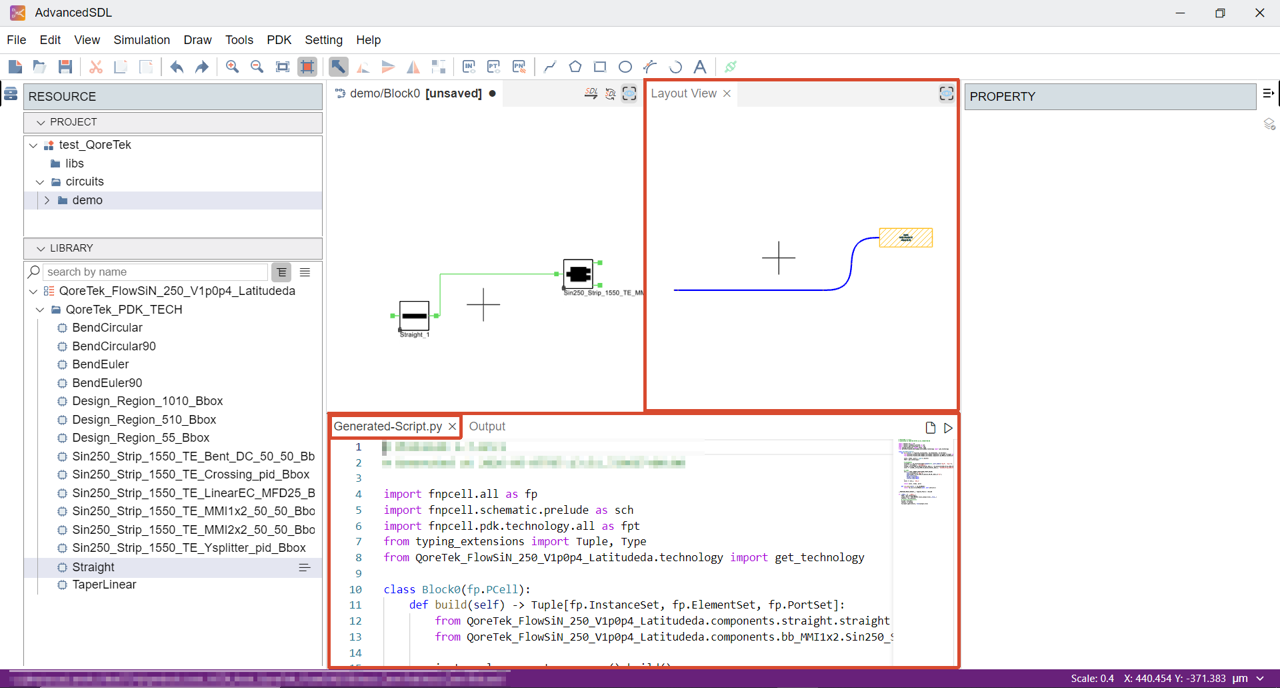
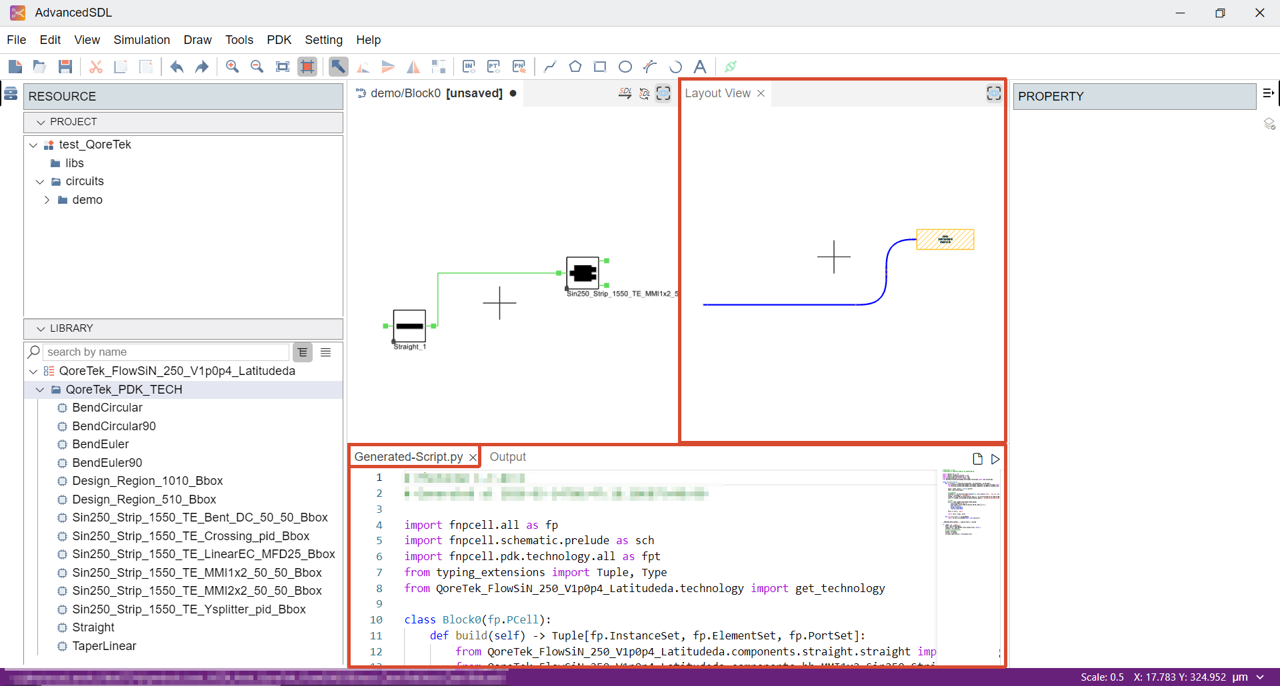
update LDS截图更换为LDA 删除design region 5*5相关内容 更新删除后的相关截图 新增_Customer

diff --git a/docs/source/intro/install_photocad.rst b/docs/source/intro/install_photocad.rst
@@ -3,6 +3,6 @@ Install PhotoCAD and QoreTek FlowSiN 250 V1p0p4 PDK
 
 Once Python and Pycharm are installed, you can follow the instructions to install **PhotoCAD** via **PIC Studio**. After installation, we will find the completed **fnpcell** and **gpdk** packages in ``Lib>site-packages``. **fnpcell** is the main package of **PhotoCAD**, which is used for parametric layout component scripts and layout routing scripts. **gpdk** is a collection of all examples in **PhotoCAD**. It contains both component cell layout scripts and other design templates based on parametric component cells.
 
-To install **QoreTek FlowSiN 250 V1p0p4 PDK** package to **PhotoCAD**, extract ``QoreTek_FlowSiN_250_V1p0p4_Latitudeda.zip`` to the project folder.
+To install **QoreTek FlowSiN 250 V1p0p4 PDK** package to **PhotoCAD**, extract ``QoreTek_FlowSiN_250_V1p0p4_Latitudeda_Customer.zip`` to the project folder.
 
 .. image:: ../images/install.png

diff --git a/docs/source/quick_start/PhotoCAD.rst b/docs/source/quick_start/PhotoCAD.rst
@@ -55,7 +55,7 @@ Import QoreTek FlowSiN 250 PDK into PhotoCAD
 
 First, make sure that the **QoreTek FlowSiN 250 PDK** version matches the version of **PhotoCAD**. The version of **PhotoCAD** can be obtained in ``Run`` by running scripts in **PhotoCAD**.
 
-Extract the ``QoreTek_FlowSiN_250_V1p0p4_Latitudeda`` zip archive and copy it to the workspace folder. As shown in the figure below, the ``QoreTek_FlowSiN_250_V1p0p4_Latitudeda`` folder is in the demo folder and parallel to .venv_demo_QoreTek_FlowSiN250.
+Extract the ``QoreTek_FlowSiN_250_V1p0p4_Latitudeda_Customer`` zip archive and copy it to the workspace folder. As shown in the figure below, the ``QoreTek_FlowSiN_250_V1p0p4_Latitudeda`` folder is in the demo folder and parallel to .venv_demo_QoreTek_FlowSiN250.
 
 .. image:: ../images/PhotoCAD_6.png
 

diff --git a/docs/source/component_list/bb_Design_Region.rst b/docs/source/component_list/bb_Design_Region.rst
@@ -1,14 +1,11 @@
 Design Region
 ##########################################################
 
-Design_Region_55_Bbox
-**********************************************************
-.. image:: ../images/Design_Region_55_Bbox.png
-
 Design_Region_510_Bbox
 **********************************************************
 .. image:: ../images/Design_Region_510_Bbox.png
 
-Design_Region_55_Bbox
+Design_Region_1010_Bbox
 **********************************************************
 .. image:: ../images/Design_Region_1010_Bbox.png
+
